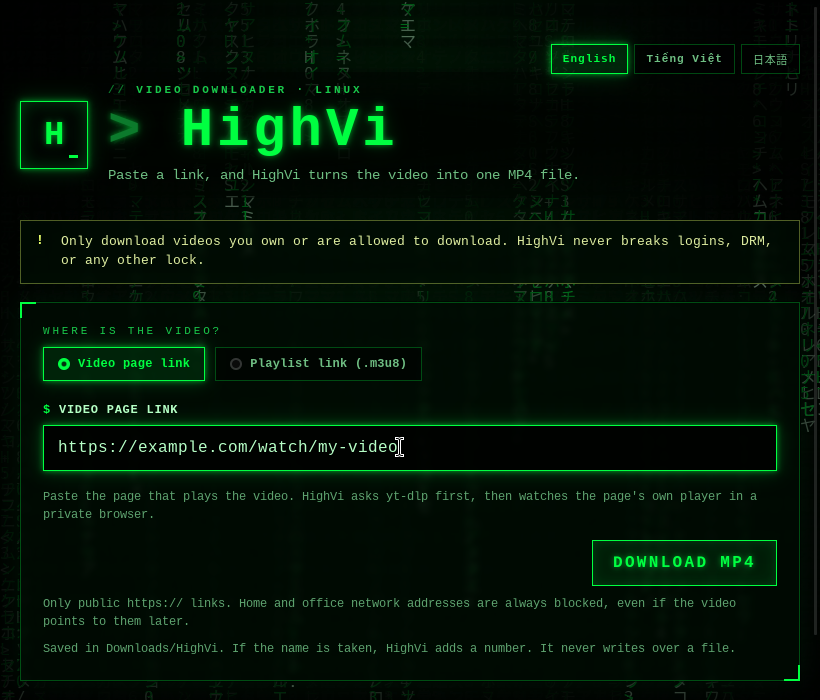
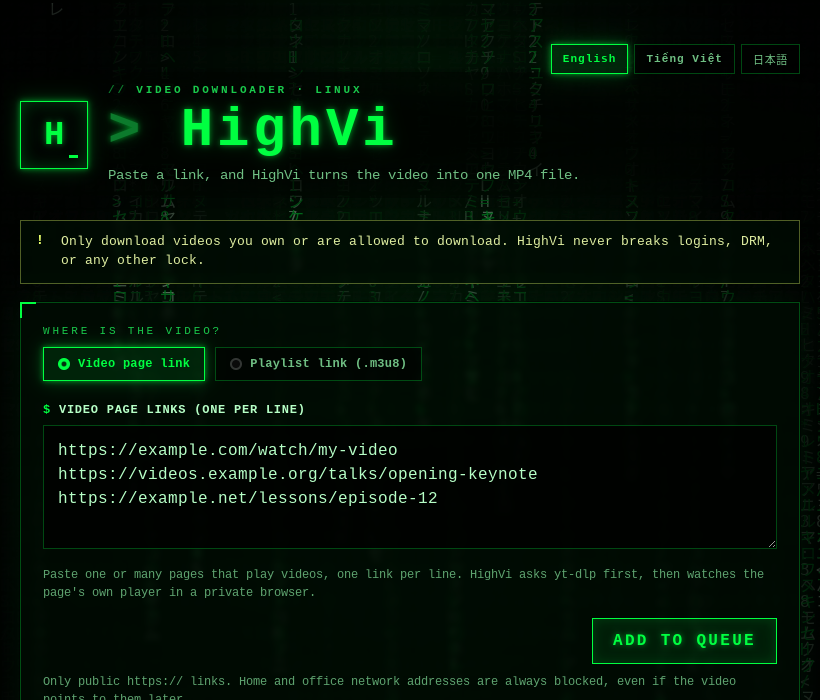
Document V1.1: the queue, yt-dlp minimum, new error codes; refresh screenshots
- READMEs (EN/VI/JA): many links at once (1-4 jobs, queue limits),
  yt-dlp 2025.11.12 or newer, Ubuntu 24.04's APT yt-dlp is too old (pipx,
  then log out and back in), nine new troubleshooting rows, precise
  tested-platform claims (24.04 and Wayland: install/start-up only).
- The update hint says 'log out and back in': Ubuntu adds ~/.local/bin to
  PATH only if it existed at login, so restarting HighVi alone can keep
  finding the old /usr/bin/yt-dlp.
- check-ui.mjs fails when a README documents a code Rust no longer
  returns, or when the three READMEs list different codes.
- ARCHITECTURE: scheduler, commands/events, job limits, MINIMUM_YT_DLP.
- Screenshots retaken from the release build (isolated Xvfb, XTEST).
- Ledger: PR C state, review log, release evidence.

diff --git a/ui/i18n.js b/ui/i18n.js
@@ -135,7 +135,7 @@ const I18N = (() => {
       "diagnostics.show": "Show diagnostics (no links, cookies or passwords)",
       "deps.outdated":
         "Your yt-dlp ({installed}) is older than {recommended}, the version HighVi is tested with. Some sites, like YouTube, won't work.",
-      "deps.updateHint": "To update on Ubuntu: sudo apt install pipx, then pipx install yt-dlp, then restart HighVi.",
+      "deps.updateHint": "To update on Ubuntu: sudo apt install pipx, then pipx install yt-dlp, then log out and back in.",
       "add.button": "Add to queue",
       "add.added": "Added {count}.",
       "add.duplicates": "{count} already in the queue.",
@@ -299,7 +299,7 @@ const I18N = (() => {
       "diagnostics.show": "Xem thông tin chẩn đoán (không có link, cookie hay mật khẩu)",
       "deps.outdated":
         "yt-dlp của bạn ({installed}) cũ hơn bản {recommended} mà HighVi đã thử. Một số trang, như YouTube, sẽ không tải được.",
-      "deps.updateHint": "Cập nhật trên Ubuntu: sudo apt install pipx, rồi pipx install yt-dlp, rồi mở lại HighVi.",
+      "deps.updateHint": "Cập nhật trên Ubuntu: sudo apt install pipx, rồi pipx install yt-dlp, rồi đăng xuất và đăng nhập lại.",
       "add.button": "Thêm vào hàng chờ",
       "add.added": "Đã thêm {count}.",
       "add.duplicates": "{count} link đã có trong hàng chờ.",
@@ -465,7 +465,7 @@ const I18N = (() => {
       "diagnostics.show": "診断情報を見る（リンク・クッキー・パスワードはふくみません）",
       "deps.outdated":
         "お使いの yt-dlp（{installed}）は、HighVi がテストした {recommended} より古いです。YouTube など、いくつかのサイトは使えません。",
-      "deps.updateHint": "Ubuntu での更新：sudo apt install pipx のあと pipx install yt-dlp を実行し、HighVi を開きなおしてください。",
+      "deps.updateHint": "Ubuntu での更新：sudo apt install pipx のあと pipx install yt-dlp を実行し、いったんログアウトしてログインしなおしてください。",
       "add.button": "キューに追加",
       "add.added": "{count} 件 追加しました。",
       "add.duplicates": "{count} 件はもうキューにあります。",

diff --git a/README.md b/README.md
@@ -41,6 +41,8 @@ HighVi speaks **English, Tiếng Việt, and 日本語**. Pick one with the butt
 **Why does “Playlist link” ask for the page too?**
 Some websites only hand out the treasure map if you say where you came from, like showing a ticket at the door. That note is called the **Referer**. HighVi only tells them the website's front-door address (for example `https://example.com/`). It never sends the rest of the page link, your cookies, or your logins.
 
+**Many videos at once?** Paste one link per line (up to 100 at a time) and press **Start queue**. HighVi works on up to **four** at once; you choose 1–4. Each row shows what it is doing, including when it is waiting for the private browser (one page at a time). You can cancel, retry, or remove any row. A link that is already in the queue isn't added twice.
+
 **Do I need DevTools or F12?** No. Paste the page link. If `yt-dlp` doesn't know the site, HighVi opens the page in a private, throw-away Chrome (no your profile, no cookies, every request through the network guard), lets the page's own player load, and picks the main video, not the adverts. The **Playlist link** mode is only an advanced fallback for when you already have the `.m3u8` link.
 
 ## ✅ What HighVi does
@@ -73,7 +75,13 @@ sudo apt install build-essential curl wget file libxdo-dev libssl-dev \
   libayatana-appindicator3-dev librsvg2-dev libwebkit2gtk-4.1-dev ffmpeg
 ```
 
-Install `yt-dlp` from your package manager or from the [official project](https://github.com/yt-dlp/yt-dlp), and keep it up to date. Then check that everything is there:
+Install `yt-dlp` **2025.11.12 or newer** (HighVi is tested with 2026.03.17 and 2026.08.19), and keep it up to date. Ubuntu 26.04's package is new enough; **Ubuntu 24.04's is not** (2024.04.09). There, install it with pipx, then **log out and back in** so the new one is found first:
+
+```bash
+sudo apt install pipx && pipx install yt-dlp
+```
+
+Then check that everything is there:
 
 ```bash
 yt-dlp --version && ffmpeg -version && node --version && cargo --version
@@ -93,6 +101,7 @@ There is no published release yet; build the packages yourself (see **Get starte
 
 ```bash
 # .deb (Ubuntu/Debian): also installs yt-dlp and FFmpeg
+# (on Ubuntu 24.04, also install a newer yt-dlp with pipx: see Get started)
 sudo apt install ./target/release/bundle/deb/HighVi_0.1.0_amd64.deb
 
 # or the AppImage (needs yt-dlp and FFmpeg on your PATH)
@@ -118,6 +127,14 @@ If the AppImage complains about FUSE, run it with `APPIMAGE_EXTRACT_AND_RUN=1`. 
 | `unsafe_network_target` | The video tried to reach a computer on a home or office network. | HighVi blocked it on purpose. |
 | `live_not_supported` | It's a live stream. | HighVi downloads finished videos only. |
 | `missing_dependency` | `yt-dlp` or FFmpeg isn't installed. | Install it, then try again. |
+| `ytdlp_too_old` | Your `yt-dlp` is older than 2025.11.12 and can't run HighVi's safety settings. | Install a newer one with pipx (see **Get started**), then log out and back in. |
+| `rate_limited` | The website says you are asking too often (HTTP 429). | Wait a while, and download fewer videos at once. |
+| `media_access_denied` | The page was found, but the video's server said **no** (HTTP 403). | Often an old `yt-dlp`: update it. Some sites only allow their own player. |
+| `download_stalled` | The download stopped moving for 2 minutes. | Try again later. |
+| `download_timeout` | One part took longer than 24 hours. | Try again on a faster connection. |
+| `insufficient_disk_space` | There isn't enough free space for the video. | Free some space, then retry. |
+| `discovery_overloaded` | The page made too many requests for the private browser to follow. | Use **Playlist link** if you have the `.m3u8`. |
+| `queue_full` / `batch_too_large` | The queue holds 200 videos, and you can add 100 at a time. | Clear finished rows, or add fewer links. |
 
 ## 🚧 Known limitations
 
@@ -127,8 +144,8 @@ If the AppImage complains about FUSE, run it with `APPIMAGE_EXTRACT_AND_RUN=1`. 
 - **A player that needs a special click** (a custom "play" overlay, an age gate, a consent wall) won't be pressed. HighVi only starts normal `<video>` elements.
 - **No system or company proxy.** HighVi's own network guard is the only way out. Behind a proxy that blocks direct connections, downloads fail.
 - **Plain `http://` media is refused,** even when the page itself is `https://`.
-- **Linux only** (tested on Ubuntu 26.04, Google Chrome 153/154, yt-dlp 2026.03.17, FFmpeg 8).
-- **One download at a time.** No queue yet.
+- **Linux only.** Tested on Ubuntu 26.04 with Google Chrome 153/154, yt-dlp 2026.03.17 and 2026.08.19, and FFmpeg 8. On Ubuntu 24.04, only installing and starting the `.deb` was checked. On Wayland, only starting up and sharp HiDPI scaling were checked.
+- **Up to four downloads at once,** and only one page in the private browser at a time. The queue is forgotten when HighVi closes.
 - **Very long media URLs (over 8 KiB) seen in the browser are ignored.**
 
 ## 🧠 For developers
@@ -146,7 +163,7 @@ node scripts/check-ui.mjs   # translation parity
 ```text
 crates/highvi-core/   Network guard (egress proxy), discovery, format choice, download job, MP4 mux, safe saving
                       (unit tests + end-to-end tests with real yt-dlp/FFmpeg against a local HTTPS fixture)
-src-tauri/            Tauri commands: start/cancel a job, progress events, open the folder
+src-tauri/            Tauri commands: the download queue, progress events, open the folder
 ui/                   The green window: index.html, styles.css, app.js, i18n.js (English · Tiếng Việt · 日本語), rain.js
 docs/assets/          README banner and screenshots
 ```

diff --git a/docs/ARCHITECTURE.md b/docs/ARCHITECTURE.md
@@ -7,8 +7,9 @@ resumable work log and verification evidence live in [LEDGER.md](LEDGER.md).
 
 | Path | Responsibility |
 | --- | --- |
-| `ui/` | Static webview UI (no framework). Sends a source and a job ID; renders progress events. Never sees media URLs. |
-| `src-tauri/src/lib.rs` | Tauri commands: `start_job`, `cancel_job`, `dependency_status`, `open_output_folder`. One job at a time; cancels and waits on exit and on SIGTERM/SIGHUP/SIGINT. |
+| `ui/` | Static webview UI (no framework). Sends sources and item IDs; renders queue snapshots (applied only when newer) and progress. Never sees media URLs. |
+| `src-tauri/src/lib.rs` | Tauri commands: `queue_*` (add, start/pause, concurrency, cancel, retry, remove, snapshot, diagnostics), `dependency_status`, `open_output_folder`. Emits `queue-changed` and `queue-progress`. Cancels and waits (≤ 5 s) on exit and on SIGTERM/SIGHUP/SIGINT. |
+| `crates/highvi-core/src/queue.rs` | The scheduler: FIFO, 1–4 jobs at once, one lock for all state, revisioned snapshots, progress only for the current attempt; pauses on a missing or too-old tool. |
 | `crates/highvi-core/src/job.rs` | The job: discover → choose formats → download tracks → mux → publish. |
 | `egress.rs`, `netpolicy.rs` | Per-job `CONNECT` proxy on 127.0.0.1: the only network route for yt-dlp and Chrome. Public HTTPS destinations only. |
 | `ytdlp.rs`, `formats.rs` | Hermetic yt-dlp arguments; parsing and sanitising its JSON; choosing formats. |
@@ -17,7 +18,7 @@ resumable work log and verification evidence live in [LEDGER.md](LEDGER.md).
 | `process.rs` | Child processes: no shell, cleared env, own process group, bounded output, cancel/timeout kills the group. |
 | `filesystem.rs` | `Downloads/HighVi`, private locked job directories, no-replace publishing. |
 | `classify.rs` | yt-dlp output → error code, attributed to what was being fetched (page, browser-found playlist, media). |
-| `tools.rs` | Tool versions; whether yt-dlp is older than a site needs (`SITE_MINIMUMS`) or than tested. |
+| `tools.rs` | Tool versions; whether yt-dlp is too old to run (`MINIMUM_YT_DLP`, 2025.11.12: first with `--no-js-runtimes`), older than a site needs (`SITE_MINIMUMS`), or than tested. |
 | `diagnostics.rs` | Per-job report for a failed job: stages, codes, versions, host names only. |
 | `e2e.rs` (tests only) | Local HTTPS fixture + synthetic media; real yt-dlp, FFmpeg and Chrome. |
 
@@ -70,13 +71,13 @@ Extractor-related failures carry a `hint` to update yt-dlp when it is older than
 | Disk | before downloading: free − other jobs' reservations ≥ 2 × estimated size + 512 MiB floor; while downloading and muxing (both watched every second): stop below the floor (`insufficient_disk_space`) |
 | DevTools messages | events ≤ 1 MiB (larger skipped unparsed), replies ≤ 16 MiB; queued messages weighted (events × 8 for parsed-JSON overhead) ≤ 64 MiB, backlog ≤ 16 MiB; tracked URLs ≤ 8 MiB; queue overflow or untracked requests → `discovery_overloaded` |
 | Mux | 30 min |
-| Jobs | 1 at a time; Chrome never runs while idle |
+| Jobs | 1–4 at once (default 2); queue ≤ 200 items, ≤ 100 per add; one Chrome and two muxes at a time (waits are cancellable and shown as stages); Chrome never runs while idle |
 
 ## Tests
 
 ```bash
 HIGHVI_REQUIRE_E2E=1 cargo test --workspace   # unit + end-to-end (needs yt-dlp, ffmpeg, ffprobe, Chrome)
-node scripts/check-ui.mjs                      # EN/VI/JA catalogue parity, every Rust error code translated
+node scripts/check-ui.mjs                      # EN/VI/JA catalogue parity, every Rust error code translated, README code tables real and in sync
 ```
 
 Without `HIGHVI_REQUIRE_E2E`, end-to-end tests skip when a tool is missing. CI sets it, pins

diff --git a/docs/LEDGER.md b/docs/LEDGER.md
@@ -10,8 +10,12 @@ Compact, resumable record. Newest mission first.
 - PR #6 (B: stall/deadline/disk, DevTools byte bounds) **merged by the owner** → main 6b32985
   (head 86aa4db: CI green, Codex r5 clean, reviewer findings closed; #5 accepted).
 - Merges: the auto-mode permission check blocks `gh pr merge`; the owner merges.
-- `feature/v1.1-bulk-queue` (C: queue + UI + too-old yt-dlp) rebased on B; 156 tests locally.
-- Next: C open (Codex, CI) → owner merges → D (docs, packages, release checks).
+- PR #7 (C: queue + UI + too-old yt-dlp) open; head 48e173f: CI green (both yt-dlp,
+  .deb, audit), 158 tests locally; Codex blocked by its usage limit, retry scheduled.
+- `feature/v1.1-release-docs` (D, stacked on C): READMEs EN/VI/JA (queue, yt-dlp ≥ 2025.11.12,
+  Ubuntu 24.04 pipx + re-login, 9 new error rows), ARCHITECTURE, screenshots, README
+  code-table check in `check-ui.mjs`, update hint says "log out and back in".
+- Next: Codex on C → owner merges C → open D (Codex, CI) → owner merges D.
 - Failed gates: — . Open issue: `target/` was deleted by an unknown actor between
   11:20 and 11:22 local (not by any logged command of this session, its agents or
   Codex); only build artifacts lost (incl. V1 bundles; rebuildable from c990a01).
@@ -32,7 +36,21 @@ Compact, resumable record. Newest mission first.
   waiting, L2 sync runner panic leaks slot, L3 random-ID folder titles → all fixed with
   tests proven to fail on the previous code.
 
+- PR C (#7): reviewer on 76616d9 + f69e8f5: no critical/high. M1 "no such option" from
+  site text → ytdlp_too_old paused the queue → anchored to yt-dlp's usage line for
+  HighVi's own options + installed-version confirmation (tests fail without each). M2
+  too-old card said "Missing tools" + apt hint → own title + pipx steps. L: minimum is
+  the measured 2025.11.12; folder names keep Movie2024/S01E02/BBB_1080p; stale attempts
+  cannot pause the queue. Fixed in 48e173f.
+
 ## Release evidence so far
+
+- yt-dlp option support (official release zipapps): `--no-plugin-dirs` from ≤ 2025.09.26,
+  `--no-js-runtimes` from 2025.11.12 (2025.10.22 lacks it) → MINIMUM_YT_DLP 2025.11.12.
+  All 38 real-tool e2e pass with 2025.11.12; real 2025.10.22 → `ytdlp_too_old`; the
+  release app shows "yt-dlp is too old" with pipx steps (Xvfb screenshot).
+- Ubuntu 24.04 `/etc/skel/.profile` adds `~/.local/bin` to PATH only if it exists at login:
+  after `pipx install yt-dlp` the user must log out and back in (hint text corrected).
 
 - APT (docker, `.deb` from C): Ubuntu 24.04.5 and 26.04.1 — install with deps, binary,
   desktop entry, icon, starts under Xvfb as a user, remove keeps `~/Downloads/HighVi`.
